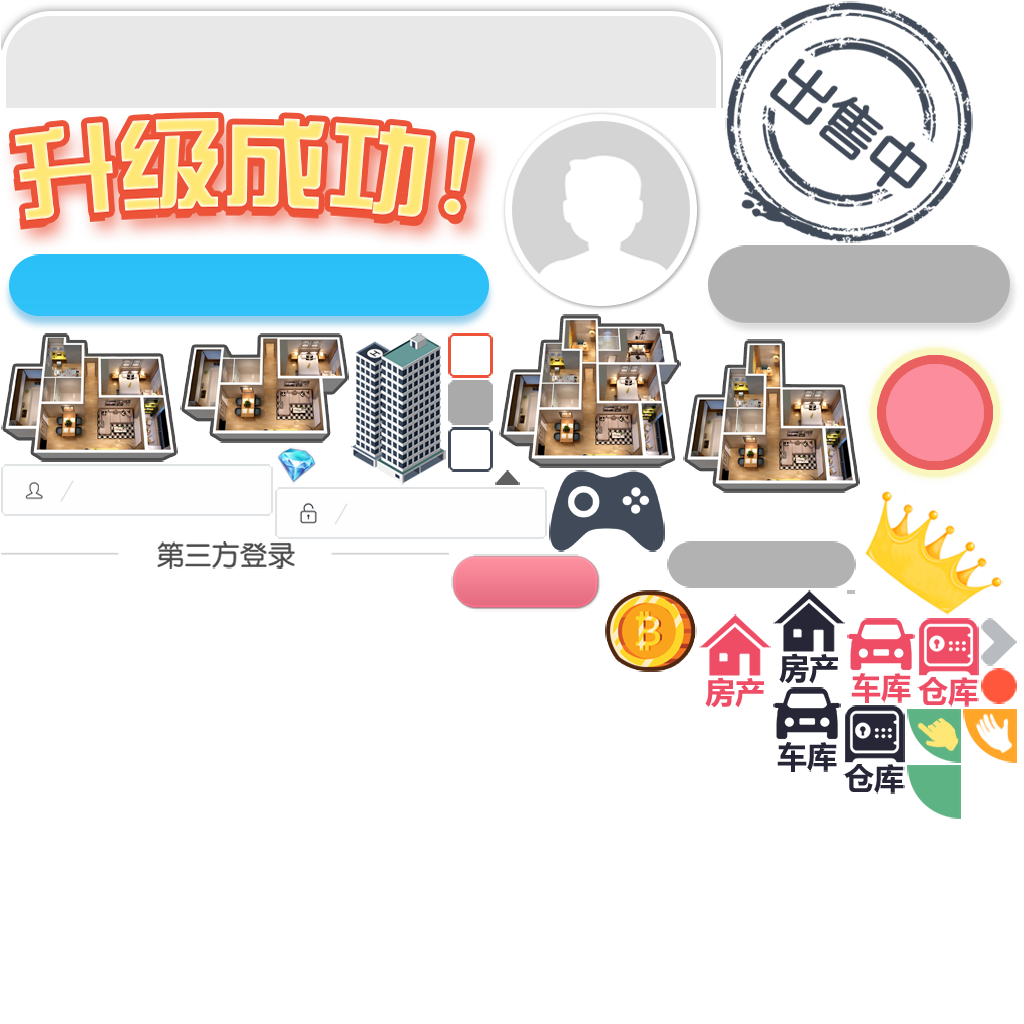
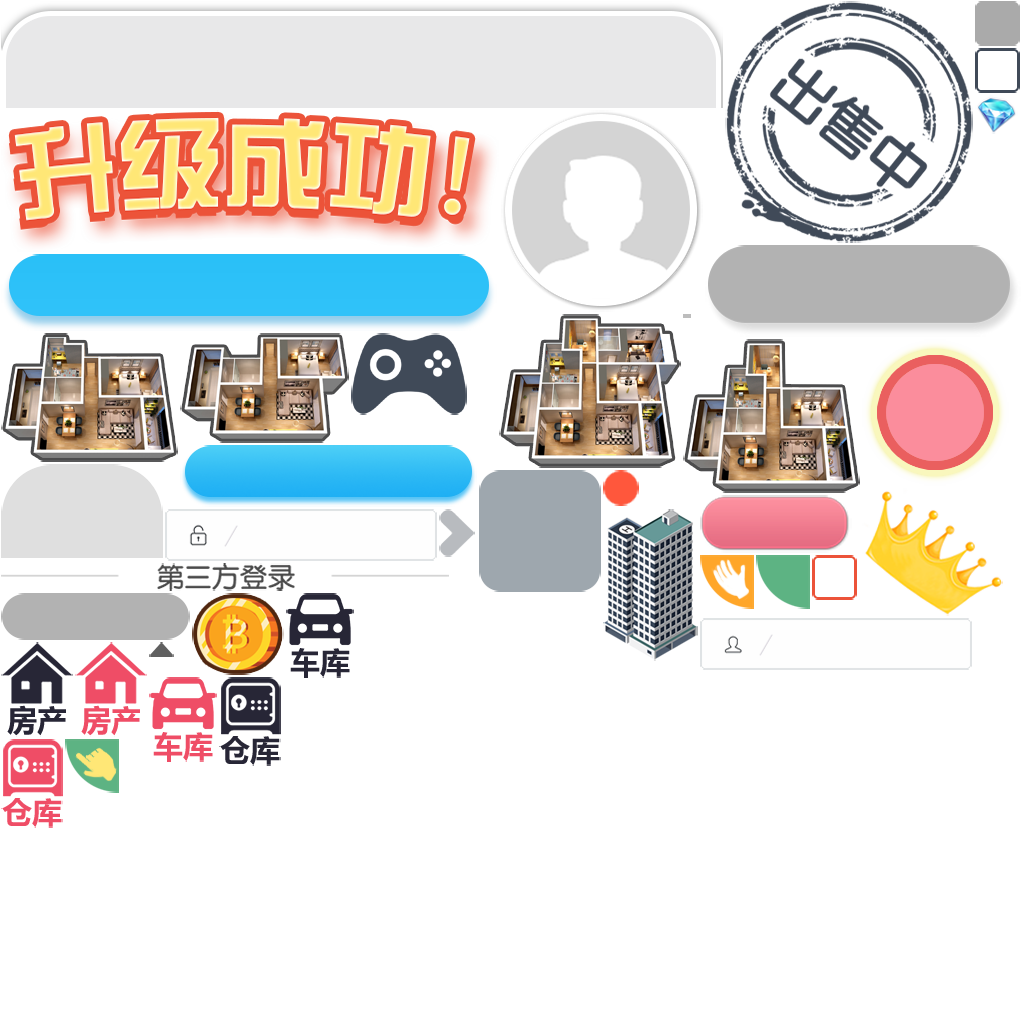
9999

Changed region(s): [[0.0, 0.3125, 1.0, 0.8125], [0.9375, 0.0, 1.0, 0.125]]

diff --git a/ClientBoss/src/application/view/assets/GameSceneAssetsView.ts b/ClientBoss/src/application/view/assets/GameSceneAssetsView.ts
@@ -20,15 +20,19 @@ module game {
 		private titleRadio2: eui.RadioButton;
 		private titleRadio3: eui.RadioButton;
 		private radioGroup: eui.RadioButtonGroup;
-		//private radioLine: eui.Rect;
+		//private detailsMask: eui.Rect;
 
 		private contentStarck: eui.ViewStack;
 		private stackGroup1: eui.Group;
 		private stackGroup2: eui.Group;
 		private stackGroup3: eui.Group;
 
+		private itemListGroup: eui.Group;
+
 		private undoneTips2: eui.Label;
 		private undoneTips3: eui.Label;
+
+		private detailsPanel: DepotDetailsPanel;
 
 		public currentGroupId: number = 1;
 
@@ -45,7 +49,10 @@ module game {
 			this.radioGroup.addEventListener(egret.Event.CHANGE, this.onChangeSex, this);
 			this.radioGroup.selectedValue = this.titleRadio1.value;
 			this.currentGroupId = this.radioGroup.selectedValue;
-			if (this.currentGroupId == 2) {CarManager.getInstance().ReqMyCarInfo();}
+
+			//this.detailsMask.addEventListener(egret.TouchEvent.TOUCH_TAP, this.onclick_detailsMask, this);
+
+			if (this.currentGroupId == 2) { CarManager.getInstance().ReqMyCarInfo(); }
 			this.contentStarck.selectedChild = this["stackGroup" + this.currentGroupId];
 
 			this.view_bg.height = gameConfig.curHeight();
@@ -56,7 +63,7 @@ module game {
 		protected resetSize() {
 			super.resetSize();
 			this.view_bg.height = gameConfig.curHeight();
-			this.contentStarck.height=GameConfig.innerPageHeight-this.contentStarck.y-20;
+			this.contentStarck.height = GameConfig.innerPageHeight - this.contentStarck.y - 20;
 		}
 		private onChangeSex(e: egret.Event) {
 			var rbGroup: eui.RadioButtonGroup = e.target;
@@ -68,6 +75,8 @@ module game {
 				CarManager.getInstance().ReqMyCarInfo();
 			} else if (this.currentGroupId == 1) {
 				this.dispatchEvent(new BasicEvent(GameSceneAssetsView.PAGE_SWITCH, { pageIndex: 1 }));
+			} else if (this.currentGroupId == 3) {
+				this.openDepotView();
 			}
 		}
 		private assetsItemList: utils.ScrollerPanel;
@@ -111,5 +120,78 @@ module game {
 			}
 
 		}
+		public openDepotView() {
+			//this.detailsMask.visible=false;
+			//this.detailsPanel.visible=false;
+			//this.detailsPanel.bottom=-this.detailsPanel.height;
+			let infoList: any[] = DataManager.playerModel.getBag();
+			if (infoList) {
+				this.updateItemList(infoList);
+			}
+
+		}
+		private itemList: utils.AllScrollerPanel;
+		private itemInfoList: any[] = [];
+		public updateItemList(list: any[]) {
+			this.itemInfoList = list;
+			if (this.itemList == null) {
+				this.itemList = new utils.AllScrollerPanel();
+				this.itemListGroup.addChild(this.itemList);
+				this.itemList.y = 4;
+				this.itemList.width = this.contentStarck.width;
+				this.itemList.x = 0;
+				console.log(this.detailsPanel.y);
+
+				this.itemList.height = this.contentStarck.height - this.itemList.y - this.detailsPanel.height;
+				this.itemList.initItemRenderer(DepotListItemPanel);
+				this.itemList.dataList.addEventListener(eui.ItemTapEvent.ITEM_TAP, this.onDepotItemTouch, this);
+			}
+			this.itemList.bindData(this.itemInfoList);
+			this.detailsPanel.showPanel(this.itemInfoList[0]);
+			this.clearDepotItemframe();
+			let mc: any = this.itemList.dataList.getElementAt(0);
+			if (mc) {
+				mc.showFrame();
+			}
+		}
+		private onDepotItemTouch(eve: eui.ItemTapEvent) {
+			this.clearDepotItemframe();
+			let mc: any = this.itemList.dataList.getElementAt(eve.itemIndex);
+			if (mc) {
+				mc.showFrame();
+			}
+			let item: any = this.itemInfoList[eve.itemIndex];
+			if (item) {
+				//this.openDepotDetails(item);
+				this.detailsPanel.showPanel(item);
+			}
+		}
+		private clearDepotItemframe() {
+			if (this.itemInfoList && this.itemInfoList.length > 0) {
+				for (let i: number = 0; i < this.itemInfoList.length; i++) {
+					let mc: any = this.itemList.dataList.getVirtualElementAt(i);
+					if (mc) {
+						mc.hideFrame();
+					}
+				}
+			}
+		}
+		/*private onclick_detailsMask(){
+			this.detailsPanel.hidePanel();
+				egret.Tween.get(this.detailsPanel)
+				.to({bottom: -this.detailsPanel.height}, 300)
+				.call(this.closeDepotDetails, this);
+		}
+		private openDepotDetails(item:any){
+			this.detailsMask.visible=true;
+			this.detailsPanel.visible=true;
+			this.detailsPanel.showPanel(item);
+				egret.Tween.get(this.detailsPanel)
+				.to({bottom: 0}, 300);
+		}
+		public closeDepotDetails(){
+			this.detailsMask.visible=false;
+			this.detailsPanel.visible=false;
+		} */
 	}
 }

diff --git a/ClientBoss/src/core/net/NetManager.ts b/ClientBoss/src/core/net/NetManager.ts
@@ -12,9 +12,9 @@ module game {
      // export var $gameNetIp: string = "ws://210.73.214.74:{gamePort}/ws_handler";
 
     //策划服务器
-    export var $registIp: string = "http://192.168.30.204:7003";
-    export var $netIp: string = "ws://192.168.30.204:7002/ws_handler";
-    export var $gameNetIp: string = "ws://192.168.30.204:{gamePort}/ws_handler";
+    //export var $registIp: string = "http://192.168.30.204:7003";
+    //export var $netIp: string = "ws://192.168.30.204:7002/ws_handler";
+    //export var $gameNetIp: string = "ws://192.168.30.204:{gamePort}/ws_handler";
 
     //谢建服务器
     // export var $registIp: string = "http://192.168.30.203:7003";
@@ -22,9 +22,9 @@ module game {
     // export var $gameNetIp: string = "ws://192.168.30.203:{gamePort}/ws_handler";
 
     //毕强服务器
-        // export var $registIp: string = "http://192.168.30.205:7003";
-        // export var $netIp: string = "ws://192.168.30.205:7002/ws_handler";
-        // export var $gameNetIp: string = "ws://192.168.30.205:{gamePort}/ws_handler"; 
+         export var $registIp: string = "http://192.168.30.205:7003";
+         export var $netIp: string = "ws://192.168.30.205:7002/ws_handler";
+         export var $gameNetIp: string = "ws://192.168.30.205:{gamePort}/ws_handler"; 
 
     //刘凯服务器
     //export var $registIp: string = "http://192.168.30.206:7002";

diff --git a/ClientBoss/src/application/view/assets/DepotListItemPanel.ts b/ClientBoss/src/application/view/assets/DepotListItemPanel.ts
@@ -3,16 +3,13 @@ module game {
         
         private itemImg: eui.Image;
         private num_txt: eui.Label;
+        private select_mc:eui.Rect;
 
         public constructor(data: any = null) {
             super();
             this.skinName = DepotListItemSkin;
             //this.adaptive();
             
-
-        }
-        private onclick_begin(eve:egret.TouchEvent){
-           
 
         }
         private adaptive(){
@@ -24,8 +21,19 @@ module game {
         protected dataChanged(): void {
             this.itemDate = this.data;
             if (this.itemDate) {
-                
+                let itemInfo = table.ItemBaseDataById[this.itemDate.id];
+                this.itemImg.source=RES.getRes("item_"+itemInfo.ImageId+"_png");
+                this.num_txt.text=""+this.itemDate.num;
             }
         }
+
+        public showFrame(){
+            this.select_mc.visible=true;
+        }
+        public hideFrame(){
+            this.select_mc.visible=false;
+        }
+
+        
     }
 }

diff --git a/ClientBoss/src/application/view/assets/DepotDetailsPanel.ts b/ClientBoss/src/application/view/assets/DepotDetailsPanel.ts
@@ -1,0 +1,40 @@
+module game {
+	export class DepotDetailsPanel extends eui.Component {
+		private itemImg: eui.Image;
+
+		private name_txt: eui.Label;
+		private num_txt: eui.Label;
+		private info_txt: eui.Label;
+
+		private use_btn: eui.Button;
+		private item:any;
+		private itemInfo:any;
+
+		public constructor() {
+			super();
+			this.skinName = DepotDetailsPanelSkin;
+		}
+
+		public showPanel(info:any){
+			this.item=info;
+			if(this.item){
+				this.itemInfo = table.ItemBaseDataById[this.item.id];
+				if(this.itemInfo){
+					this.itemImg.source=RES.getRes("item_"+this.itemInfo.ImageId+"_png");
+					this.name_txt.text=this.itemInfo.Name;
+					this.info_txt.text=this.itemInfo.Desc;
+					this.num_txt.text="数量:"+this.item.num;
+					if(this.itemInfo.Clothes>0){
+						this.use_btn.visible=true;
+					}else{
+						this.use_btn.visible=false;
+					}
+				}
+			}
+
+		}
+		public hidePanel(){
+			
+		}
+	}
+}

diff --git a/ClientBoss/src/application/view/room/ItemUplevelPanel.ts b/ClientBoss/src/application/view/room/ItemUplevelPanel.ts
@@ -23,8 +23,8 @@ module game {
             this.full_border.visible = false;
             if (this.itemInfo) {
                 this.name_txt.text = this.itemInfo.Name;
+                this.iconImg.source=RES.getRes("item_"+this.itemInfo.ImageId+"_png")
                 let bagItem: any = DataManager.playerModel.getBagItem(id);
-                console.log("bagItem-->",bagItem);
                 if (bagItem == null) {
                     this.haveNum = 0
                 } else {
